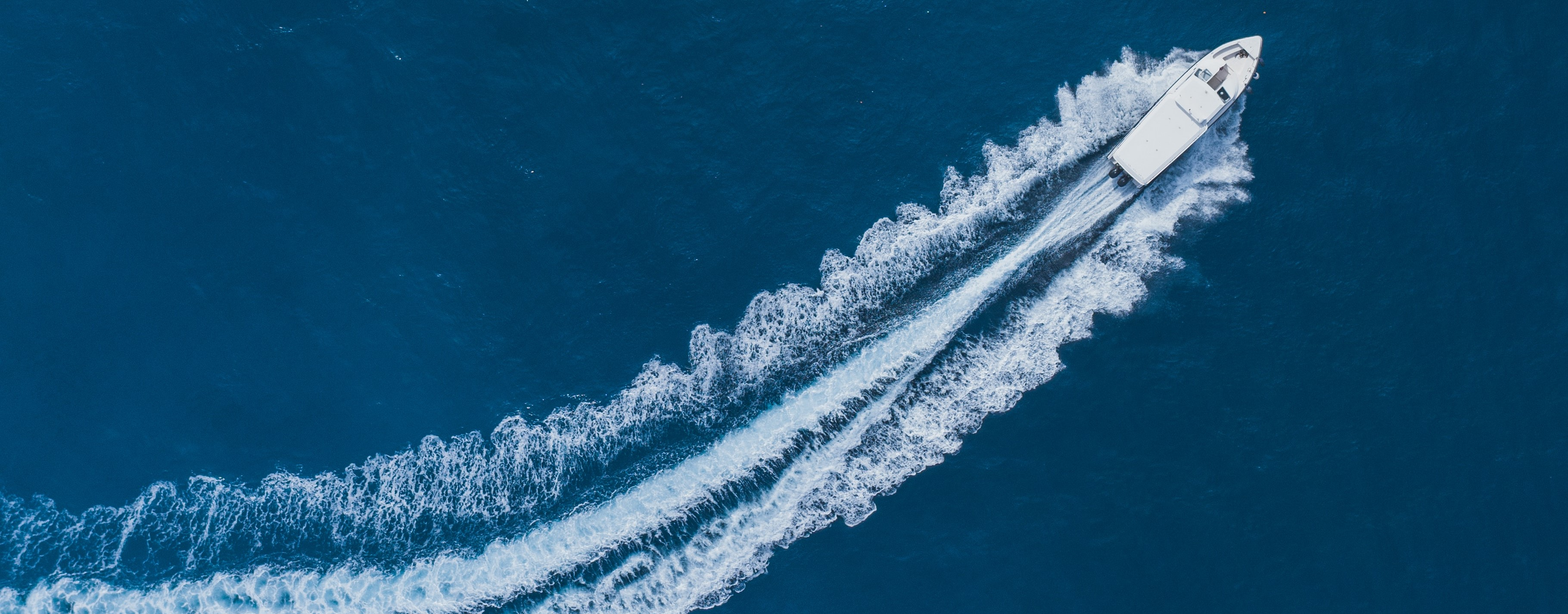
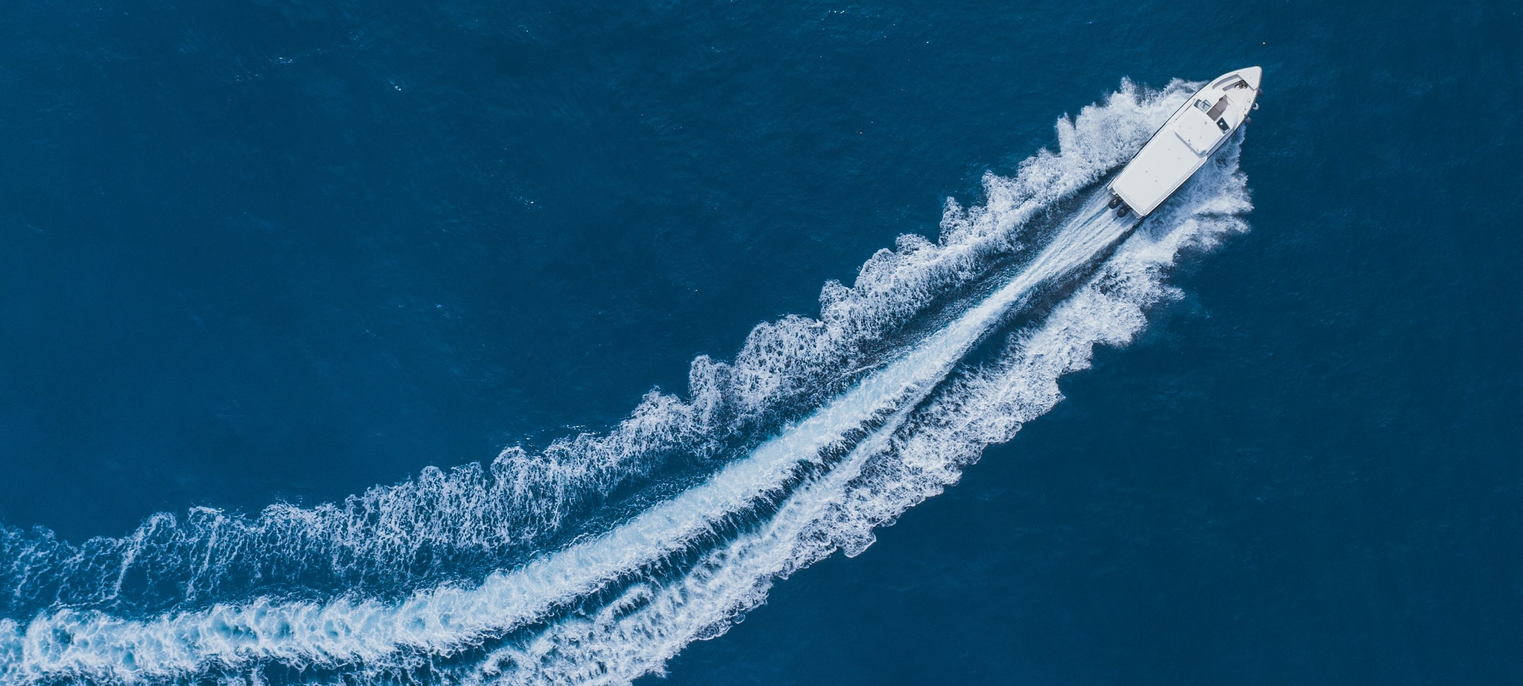
Impressum -> Kontakt; Startseite Flexboxen

Changed region(s): [[0.0, 0.0617, 0.8397, 1.0]]

diff --git a/Client/index.html b/Client/index.html
@@ -11,16 +11,27 @@
    <li id="aktuell"><a href="index.html">Startseite</a> </li> 
    <li> <a href="boote.html">Boote</a> </li>  
    <li>  <a href="ausflug.html">Ausflug</a></li>
-   <li> <a href="impressum.html">Impressum</a> </li>
+   <li> <a href="kontakt.html">Kontakt</a> </li>
     <li><a href ="anmeldung.html">Login </a></li>
 </ul>
 </div>
 <img class="img-fit" src="Images/Bild.jpg" alt="Motorboot auf See">
-
-
-
-
-
+<div class="container">
+    <div class="blocktext">
+    Willkommen bei <a id="header">Sea United</a>
+    </div>
+    <div class="blocktext">
+    Wir bieten unvergessliche Bootsausflüge.
+    Ein atemberaubender Tag auf See. 
+    Privaten Gruppen wird so die Möglichkeit geboten mit Freunden, Bekannten, 
+    Familie oder den Liebsten traumhafte Momente zu erleben. 
+    </div>
+    <div class="blocktext">
+    Schauen sie doch einfach mal an was wir zu bieten haben und 
+    wann die nächste Ausfahrten geplant sind. 
+    Wir freuen uns auf sie und darauf ihnen einen unvergesslichen Tag zu bieten.
+    </div>
+</div>
     </body>
 
 </html>

diff --git a/Client/format.css b/Client/format.css
@@ -45,12 +45,10 @@
 }
 .img-fit {
         width: 100%;
-        height: 5%;
+        height: 100%;
         margin-top: 6rem;
         object-fit: cover;
 }
-
-
 #inhalt {
         position: absolute;
         top: 100px;
@@ -58,4 +56,26 @@
         width: 85%;
         left: 15%;
         border-left-width: 1px;
+}
+.container{
+        display: flex;
+        flex-direction: column;
+        justify-content: flex-start;
+        width: 350px;
+        background-color: white;
+        border: none;
+        margin-top: 6%;
+        margin-left: 1rem;       
+}
+.blocktext{
+        font-size: 1rem;
+        padding: .4rem 0rem;
+        margin: 0 -2px;
+        letter-spacing: 3px;
+        font-style: black;
+        font-family: 'old_standard_ttregular';
+}
+#header {
+        font-size: 1.7rem;
+        font-weight: bold;
 }

diff --git a/Client/anmeldung.html b/Client/anmeldung.html
@@ -12,7 +12,7 @@
                    <li><a href="index.html">Startseite</a> </li> 
                    <li> <a href="boote.html">Boote</a> </li>  
                    <li>  <a href="ausflug.html">Ausflug</a></li>
-                   <li> <a href="impressum.html">Impressum</a> </li>
+                   <li> <a href="kontakt.html">Kontakt</a> </li>
                     <li id="aktuell"><a href ="anmeldung.html">Login </a></li>
                 </ul>
                 </div>

diff --git a/Client/boote.html b/Client/boote.html
@@ -10,7 +10,7 @@
                <li><a href="index.html">Startseite</a> </li> 
                <li id="aktuell"> <a href="boote.html">Boote</a> </li>  
                <li>  <a href="ausflug.html">Ausflug</a></li>
-               <li> <a href="impressum.html">Impressum</a> </li>
+               <li> <a href="kontakt.html">Kontakt</a> </li>
                 <li><a href ="anmeldung.html">Login </a></li>
             </ul>
             </div>

diff --git a/Client/ausflug.html b/Client/ausflug.html
@@ -9,7 +9,7 @@
                <li><a href="index.html">Startseite</a> </li> 
                <li> <a href="boote.html">Boote</a> </li>  
                <li id="aktuell">  <a href="ausflug.html">Ausflug</a></li>
-               <li> <a href="impressum.html">Impressum</a> </li>
+               <li> <a href="kontakt.html">Kontakt</a> </li>
                 <li><a href ="anmeldung.html">Login </a></li>
             </ul>
             </div>

diff --git a/Client/kontakt.html b/Client/kontakt.html
@@ -10,7 +10,7 @@
    <li><a href="index.html">Startseite</a> </li> 
    <li> <a href="boote.html">Boote</a> </li>  
    <li>  <a href="ausflug.html">Ausflug</a></li>
-   <li id="aktuell"> <a href="impressum.html">Impressum</a> </li>
+   <li id="aktuell"> <a href="kontakt.html">Kontakt</a> </li>
     <li><a href ="anmeldung.html">Login </a></li>
 </ul>
 </div>
